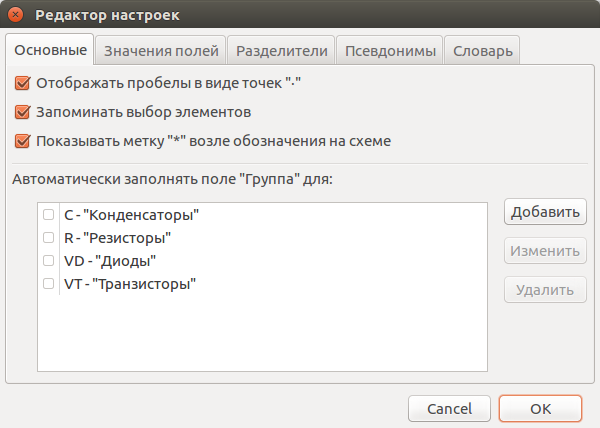
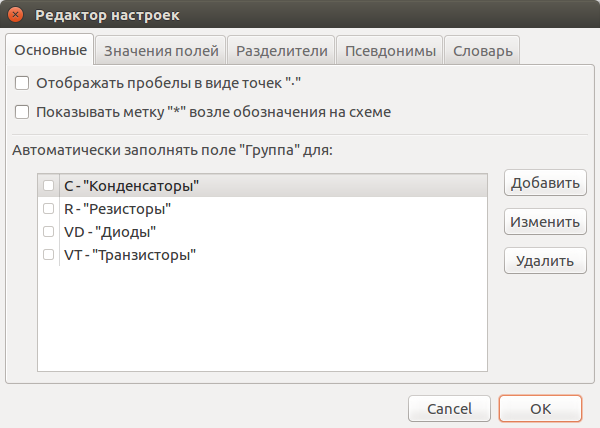
Remove unused setting (remember selection).

diff --git a/doc/user_manual.html b/doc/user_manual.html
@@ -521,7 +521,7 @@ body.book #toc,body.book #preamble,body.book h1.sect0,body.book .sect1>h2{page-b
 <p>Руководство пользователя</p>
 </div>
 <div class="paragraph">
-<p>Версия 3.14</p>
+<p>Версия 3.15</p>
 </div>
 </div>
 </div>
@@ -2210,17 +2210,6 @@ LibreOffice Calc. А вот LibreOffice Writer такой функциональ
 виде специального символа "·".</p>
 </div>
 <div class="paragraph">
-<p><strong>Запоминать выбор элементов</strong>&#8201;&#8212;&#8201;если это параметр установлен, то при
-сохранении файла схемы для элементов, которые исключены из перечня элементов
-(отметка в таблице снята) будет добавлено новое поле с именем <em>"Исключён из
-ПЭ</em>. В этом поле можно указать комментарий с описанием причины, по которой
-элемент был исключён из перечня (только в <strong>Eeschema</strong>). При открытии файла
-схемы у элементов которые содержат поле <em>Исключён из ПЭ</em> будет автоматически
-снята отметка и при создании перечня эти элементы в перечень не попадут.<br>
-В общей сложности этот параметр позволяет сохранять состояние выбора элементов
-в файле схемы.</p>
-</div>
-<div class="paragraph">
 <p><strong>Показывать метку "*" возле обозначения на схеме</strong>&#8201;&#8212;&#8201;если этот параметр
 установлен, то содержимое поля "Подбирают при регулировании" (метка "*") будет
 отображаться на схеме, иначе оно будет скрыто.</p>
@@ -2668,7 +2657,7 @@ LibreOffice Calc. А вот LibreOffice Writer такой функциональ
 </div>
 <div id="footer">
 <div id="footer-text">
-Редакция от 2018-04-02 13:56:46 EEST
+Редакция от 2018-05-08 13:38:47 EEST
 </div>
 </div>
 </body>

diff --git a/gui.py b/gui.py
@@ -1124,11 +1124,6 @@ class SettingsDialog ( wx.Dialog ):
 		
 		general_tab_sizer.Add( self.space_as_dot_checkbox, 0, wx.EXPAND|wx.ALL, 5 )
 		
-		self.remember_selection_checkbox = wx.CheckBox( self.general_panel, wx.ID_ANY, u"Запоминать выбор элементов", wx.DefaultPosition, wx.DefaultSize, 0 )
-		self.remember_selection_checkbox.SetToolTipString( u"Если этот параметр установлен, то при сохранении схемы элементам, которые не отмечены для вывода в перечень элементов, будет добавлено поле \"Исключен из ПЭ\". \nПри открытии схемы для элементов с полем \"Исключен из ПЭ\" будет автоматически снята отметка о выводе в перечень элементов." )
-		
-		general_tab_sizer.Add( self.remember_selection_checkbox, 0, wx.EXPAND|wx.BOTTOM|wx.RIGHT|wx.LEFT, 5 )
-		
 		self.show_need_adjust_mark_checkbox = wx.CheckBox( self.general_panel, wx.ID_ANY, u"Показывать метку \"*\" возле обозначения на схеме", wx.DefaultPosition, wx.DefaultSize, 0 )
 		self.show_need_adjust_mark_checkbox.SetToolTipString( u"Если этот параметр установлен, то на схеме, возле обозначения компонента, номинал которого \"Подбирают при регулировании\", будет отображаться метка \"*\"." )
 		
